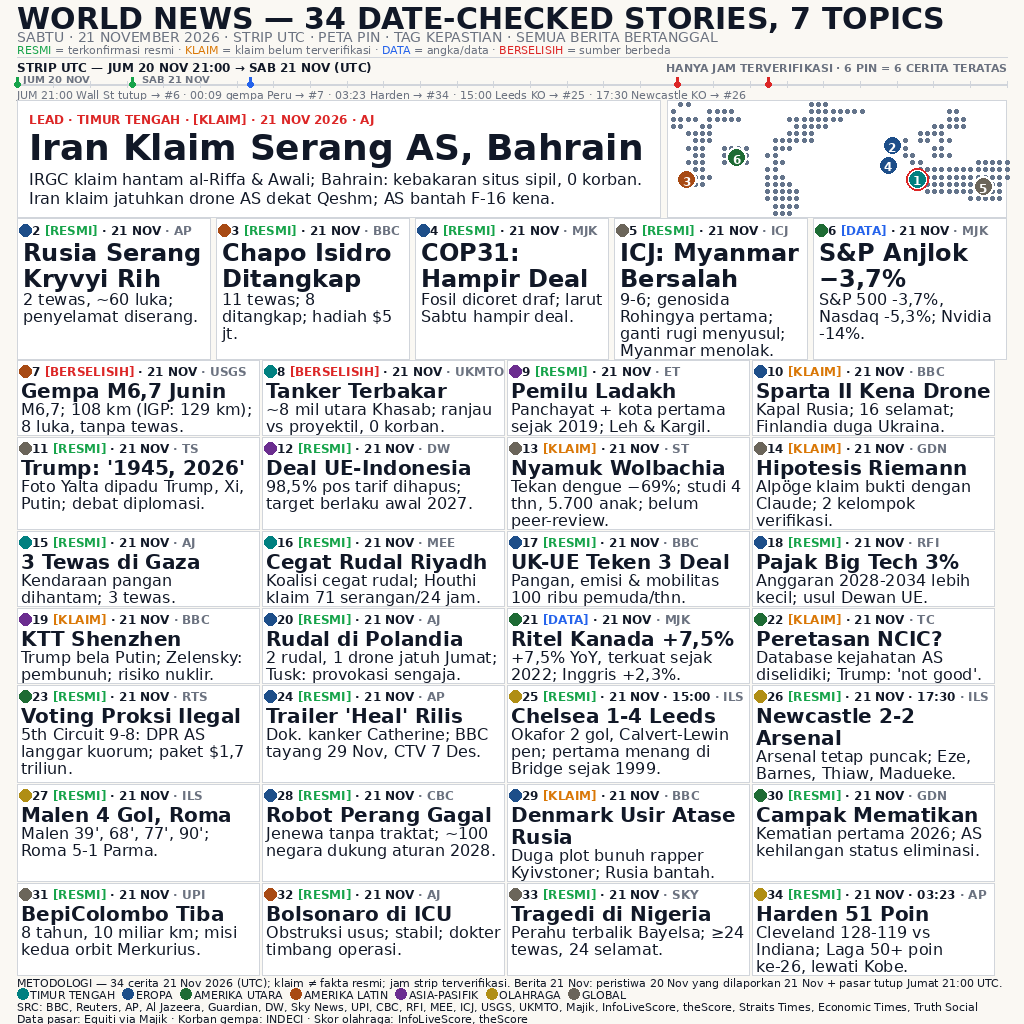
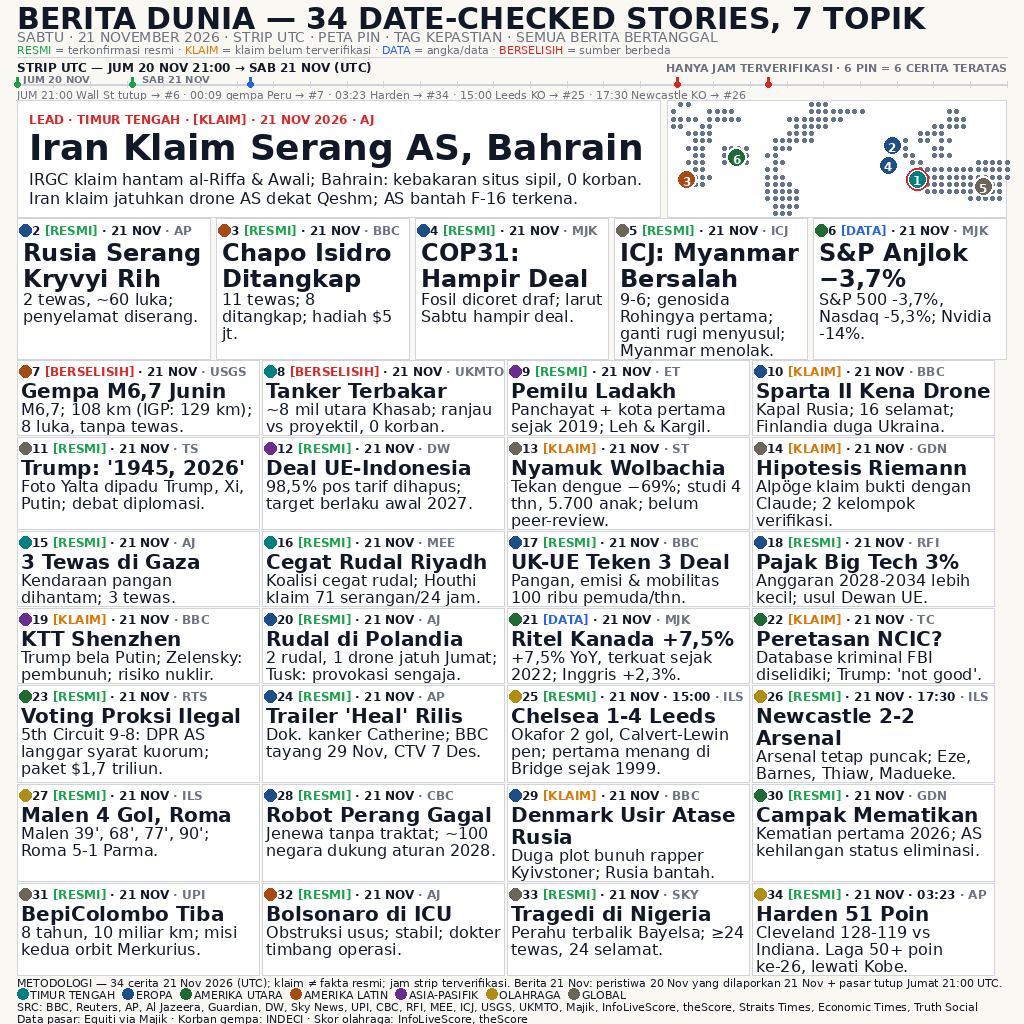
v8.9: 5 micro-fix teks per rev8.9 brief — h1 'BERITA DUNIA ... 7 TOPIK' (908,6px), #34 ';'->'.', #22 'Database kriminal FBI', #23 'syarat kuorum', lead 'F-16 terkena' (assert lead lolos); tanpa ubah geometri/font

diff --git a/stories_v8_9.py b/stories_v8_9.py
@@ -1,0 +1,211 @@
+# Data v8.6 — 34 cerita, 1 kartu = 1 cerita (polish atas v8.5, brief rev8.6).
+# Perubahan data vs v8.5 (tiga string, SEMUA terukur dgn font PIL asli):
+# A1 judul #23 "Proxy Voting Ilegal" -> "Voting Proksi Ilegal" (219,9px <=
+# 235px @20px bold). A2 badan #24 tambah "tayang" (2 baris 222/216px @16px;
+# subjek "Dok. kanker Catherine;" DIPERTAHANKAN). A3 badan #14 "dgn" ->
+# "dengan" (tetap 3 baris 215/159/77px @16px). A4 h1 "7 KATEGORI" ->
+# "7 TOPICS" (927,8px <= 990px) hanya ubah build_image.py, bukan data.
+# File baru ini ada agar build_image.py mengimpor stories_v8_6 (jejak versi bersih).
+# Tuple: (num, group, title, body, tag, time_utc_or_None, lon, lat, source)
+# SEMUA kartu punya source (34/34, dari log verifikasi OneTurn 21 Nov +
+# Majik — BUKAN tebakan). Sumber v8/v8.1 dipertahankan.
+# #7: "6,9" adalah estimasi OTOMATIS yg direvisi ke 6,7 — JANGAN dipakai.
+#   [BERSELISIH] = beda kedalaman USGS 108 km vs IGP 129 km; korban Indeci.
+# #16 tag TETAP [RESMI] (tag = kepastian klaim UTAMA cegatan koalisi;
+#   angka 71 membawa atribusi sendiri "Houthi klaim"). #19/#13 TETAP [KLAIM].
+# #20: jam pasti TAK ADA di riset -> "Jumat", bukan "20 Nov".
+# #25: Chelsea tuan rumah; Emegha cetak gol UNTUK CHELSEA (jangan cantumkan
+#   sbg pencetak gol Leeds).
+# #10: subjek "diduga" = Finlandia (terverifikasi). #29: subjek = Denmark.
+# PERUBAHAN v8.3 vs v8.2 (brief rev8.3, TERUKUR dgn font PIL asli):
+# - #2: badan "2 tewas, ~60 luka; penyelamat diserang." (2 baris, maks
+#   175,1px/182px); usia (anak 7, paramedis 20) DIBUANG — pluralitas
+#   ronde v8.2 (Claude, Kimi, MiniMax) minta "~60 luka" kembali; gabungan
+#   usia + hitungan = 4 baris, tak muat 3 baris.
+# - #10: judul "Sparta II Kena drone" (1 baris, 233,1px/235px) + badan
+#   "Kapal Rusia; 16 selamat; Finlandia duga Ukraina." (2 baris);
+#   "Kapal Rusia" kembali, "Terbakar" (terbaca kecelakaan) -> "Kena drone".
+# - #13: badan "Tekan dengue −69%; ..." (minus U+2212, seragam dgn #6).
+# - #16: judul "Cegat Rudal Riyadh" (1 baris, 221,2px/235px); badan + tag
+#   [RESMI] TETAP.
+# - #27: badan "Malen 39', 68', 77', 90'; Roma 5-1 Parma." (2 baris;
+#   baris ke-2 137,5px <= 220px); "Mora 71';" DIBUANG (gol Parma).
+# - #34: badan "Cleveland 128-119 vs Indiana; laga 50+ poin ke-26,
+#   lewati Kobe." (3 baris; "game" -> "laga 50+ poin").
+# DEVIASI TERUKUR vs brief rev8.3 (dilaporkan ke parent):
+# - A2 judul target "Sparta II Kena Drone" = 235,4px > anggaran 235px
+#   (lebih 0,4px) -> dipakai "Sparta II Kena drone" (233,1px; huruf 'd'
+#   kecil — "drone" kata benda umum, bukan nama diri; fakta drone utuh).
+#   Alternatif "Sparta II Diserang" (204,8px) DITOLAK karena membuang
+#   fakta drone dari kartu.
+# - A3 judul target "Rudal Riyadh Dicegat" = 241,9px > 235px (juga
+#   alternatif Kimi "Riyadh: Rudal Dicegat" 249,9px) -> dipakai
+#   "Cegat Rudal Riyadh" (221,2px; kata kerja + objek + tempat —
+#   tak ambigu: yg dicegat jelas "Rudal", "Riyadh" tempatnya).
+# PERUBAHAN v8.4 vs v8.3 (brief rev8.4, TERUKUR dgn font PIL asli):
+# - A1 DIBLOKIR: judul target #10 "Drone Serang Sparta II" = 258,8px
+#   > anggaran 235px (lebih 23,8px) — klaim Nemotron "~206px" SALAH
+#   (~53px). Judul #10 TETAP "Sparta II Kena drone" (233,1px). Alternatif
+#   terukur (utk parent, BUKAN diterapkan): "Sparta Kena Drone" 213,5px
+#   (buang "II" dari nama kapal), "Sparta II Kena UAV" 212,6px (jargon),
+#   "Sparta II Diserang"/"Sparta II Dihantam" 204,8/213,3px (buang fakta
+#   drone), "Sparta II Kena Drone" 235,4px (lebih 0,4px). Font TIDAK
+#   dikecilkan (dilarang). Brief: bila tak muat, LAPORKAN — dilakukan.
+# - A2 (footer src1, di build_image.py): "InfoLiveScore, theScore"
+#   dipulihkan; dana "Middle East Eye" -> "MEE" (kode meta #16 sendiri).
+STORIES = [
+    # 1 — LEAD (Timur Tengah)
+    (1, "TIMUR TENGAH", "Iran Klaim Serang AS, Bahrain",
+     "IRGC klaim hantam al-Riffa & Awali; Bahrain: kebakaran situs sipil, "
+     "0 korban. Iran klaim jatuhkan drone AS dekat Qeshm; AS bantah F-16 terkena.",
+     "KLAIM", None, 50.5, 26.2, "Al Jazeera"),
+    # 2–6 — SEKUNDER
+    (2, "EROPA", "Rusia Serang Kryvyi Rih",
+     "2 tewas, ~60 luka; penyelamat diserang.",
+     "RESMI", None, 33.4, 47.9, "AP"),
+    (3, "AMERIKA LATIN", "Chapo Isidro Ditangkap",
+     "11 tewas; 8 ditangkap; hadiah $5 jt.",
+     "RESMI", None, -108.5, 25.6, "BBC"),
+    (4, "EROPA", "COP31: Hampir Deal",
+     "Fosil dicoret draf; larut Sabtu hampir deal.",
+     "RESMI", None, 30.7, 36.9, "Majik"),
+    (5, "GLOBAL", "ICJ: Myanmar Bersalah",
+     "9-6; genosida Rohingya pertama; ganti rugi menyusul; Myanmar menolak.",
+     "RESMI", None, 96.0, 21.0, "ICJ"),
+    (6, "AMERIKA UTARA", "S&P Anjlok −3,7%",
+     "S&P 500 -3,7%, Nasdaq -5,3%; Nvidia -14%.",
+     "DATA", "21:00", -74.0, 40.7, "Majik"),
+    # 7–12 — REGULER
+    (7, "AMERIKA LATIN", "Gempa M6,7 Junin",
+     "M6,7; 108 km (IGP: 129 km); 8 luka, tanpa tewas.",
+     "BERSELISIH", "00:09", -75.0, -11.0, "USGS"),
+    (8, "TIMUR TENGAH", "Tanker Terbakar",
+     "~8 mil utara Khasab; ranjau vs proyektil, 0 korban.",
+     "BERSELISIH", None, 56.2, 26.2, "UKMTO"),
+    (9, "ASIA-PASIFIK", "Pemilu Ladakh",
+     "Panchayat + kota pertama sejak 2019; Leh & Kargil.",
+     "RESMI", None, 77.6, 34.2, "Economic Times"),
+    (10, "EROPA", "Sparta II Kena Drone",
+     "Kapal Rusia; 16 selamat; Finlandia duga Ukraina.",
+     "KLAIM", None, 25.0, 59.8, "BBC"),
+    (11, "GLOBAL", "Trump: '1945, 2026'",
+     "Foto Yalta dipadu Trump, Xi, Putin; debat diplomasi.",
+     "RESMI", None, 116.4, 39.9, "Truth Social"),
+    (12, "ASIA-PASIFIK", "Deal UE-Indonesia",
+     "98,5% pos tarif dihapus; target berlaku awal 2027.",
+     "RESMI", None, 106.8, -6.2, "DW"),
+]
+
+STORIES += [
+    (13, "GLOBAL", "Nyamuk Wolbachia",
+     "Tekan dengue −69%; studi 4 thn, 5.700 anak; belum peer-review.",
+     "KLAIM", None, -48.0, -15.0, "Straits Times"),
+    (14, "GLOBAL", "Hipotesis Riemann",
+     "Alpöge klaim bukti dengan Claude; 2 kelompok verifikasi.",
+     "KLAIM", None, -122.4, 37.8, "Guardian"),
+    (15, "TIMUR TENGAH", "3 Tewas di Gaza",
+     "Kendaraan pangan dihantam; 3 tewas.",
+     "RESMI", None, 34.5, 31.5, "Al Jazeera"),
+    (16, "TIMUR TENGAH", "Cegat Rudal Riyadh",
+     "Koalisi cegat rudal; Houthi klaim 71 serangan/24 jam.",
+     "RESMI", None, 42.8, 14.8, "Middle East Eye"),
+    (17, "EROPA", "UK-UE Teken 3 Deal",
+     "Pangan, emisi & mobilitas 100 ribu pemuda/thn.",
+     "RESMI", None, 4.4, 50.8, "BBC"),
+    (18, "EROPA", "Pajak Big Tech 3%",
+     "Anggaran 2028-2034 lebih kecil; usul Dewan UE.",
+     "RESMI", None, 4.4, 50.8, "RFI"),
+    (19, "ASIA-PASIFIK", "KTT Shenzhen",
+     "Trump bela Putin; Zelensky: pembunuh; risiko nuklir.",
+     "KLAIM", None, 114.0, 22.5, "BBC"),
+    (20, "EROPA", "Rudal di Polandia",
+     "2 rudal, 1 drone jatuh Jumat; Tusk: provokasi sengaja.",
+     "RESMI", None, 21.0, 52.2, "Al Jazeera"),
+    (21, "AMERIKA UTARA", "Ritel Kanada +7,5%",
+     "+7,5% YoY, terkuat sejak 2022; Inggris +2,3%.",
+     "DATA", None, -75.7, 45.4, "Majik"),
+    (22, "AMERIKA UTARA", "Peretasan NCIC?",
+     "Database kriminal FBI diselidiki; Trump: 'not good'.",
+     "KLAIM", None, -77.0, 38.9, "TechCrunch"),
+    (23, "AMERIKA UTARA", "Voting Proksi Ilegal",
+     "5th Circuit 9-8: DPR AS langgar syarat kuorum; paket $1,7 triliun.",
+     "RESMI", None, -77.0, 38.9, "Reuters"),
+    (24, "EROPA", "Trailer 'Heal' Rilis",
+     "Dok. kanker Catherine; BBC tayang 29 Nov, CTV 7 Des.",
+     "RESMI", None, -0.1, 51.5, "AP"),
+]
+
+STORIES += [
+    (25, "OLAHRAGA", "Chelsea 1-4 Leeds",
+     "Okafor 2 gol, Calvert-Lewin pen; pertama menang di Bridge "
+     "sejak 1999.",
+     "RESMI", "15:00", -0.1, 51.5, "InfoLiveScore"),
+    (26, "OLAHRAGA", "Newcastle 2-2 Arsenal",
+     "Arsenal tetap puncak; Eze, Barnes, Thiaw, Madueke.",
+     "RESMI", "17:30", -1.6, 54.98, "InfoLiveScore"),
+    (27, "OLAHRAGA", "Malen 4 Gol, Roma",
+     "Malen 39', 68', 77', 90'; Roma 5-1 Parma.",
+     "RESMI", None, 10.3, 44.8, "InfoLiveScore"),
+    (28, "EROPA", "Robot Perang Gagal",
+     "Jenewa tanpa traktat; ~100 negara dukung aturan 2028.",
+     "RESMI", None, 6.1, 46.2, "CBC"),
+    (29, "EROPA", "Denmark Usir Atase Rusia",
+     "Duga plot bunuh rapper Kyivstoner; Rusia bantah.",
+     "KLAIM", None, 12.6, 55.7, "BBC"),
+    (30, "AMERIKA UTARA", "Campak Mematikan",
+     "Kematian pertama 2026; AS kehilangan status eliminasi.",
+     "RESMI", None, -77.5, 37.5, "Guardian"),
+    (31, "GLOBAL", "BepiColombo Tiba",
+     "8 tahun, 10 miliar km; misi kedua orbit Merkurius.",
+     "RESMI", None, None, None, "UPI"),
+    (32, "AMERIKA LATIN", "Bolsonaro di ICU",
+     "Obstruksi usus; stabil; dokter timbang operasi.",
+     "RESMI", None, -47.9, -15.8, "Al Jazeera"),
+    (33, "GLOBAL", "Tragedi di Nigeria",
+     "Perahu terbalik Bayelsa; ≥24 tewas, 24 selamat.",
+     "RESMI", None, 6.3, 4.9, "Sky News"),
+    (34, "OLAHRAGA", "Harden 51 Poin",
+     "Cleveland 128-119 vs Indiana. Laga 50+ poin ke-26, lewati Kobe.",
+     "RESMI", "03:23", -81.7, 41.5, "AP"),
+]
+
+# Warna titik region (dipakai badge meta + pin peta). Border kartu NETRAL.
+GROUP_COLOR = {
+    "TIMUR TENGAH": (0, 128, 128),
+    "EROPA": (29, 78, 137),
+    "AMERIKA UTARA": (30, 107, 52),
+    "AMERIKA LATIN": (168, 74, 20),
+    "ASIA-PASIFIK": (107, 45, 143),
+    "OLAHRAGA": (176, 142, 20),
+    "GLOBAL": (107, 101, 90),
+}
+GROUP_ORDER = ["TIMUR TENGAH", "EROPA", "AMERIKA UTARA", "AMERIKA LATIN",
+               "ASIA-PASIFIK", "OLAHRAGA", "GLOBAL"]
+
+# (REGION_CODE v8 DIHAPUS — B1: meta seragam 4-segmen, tanpa kode region.
+# Region tetap terkode lewat DOT WARNA 12px + legenda footer nama penuh.)
+
+# Pin peta v8.2 (= v8.1): HANYA 6 cerita teratas (lead + 5 sekunder).
+# #2 (0,-2) + #4 (0,+2): pusat 20,33px — halo 20px TIDAK bersentuhan;
+# assert tabrakan memakai diameter halo (20px), bukan dot (16px).
+PINS_V8_2 = [
+    (1, 0, 0), (2, 0, -2), (3, 0, 0), (4, 0, 2), (5, 0, 0), (6, 0, 0),
+]
+
+# Kartu reguler yg membawa jam di meta (pengganti kode region): #25/#26/#34.
+TIME_IN_META = {25, 26, 34}
+
+# Singkatan sumber untuk meta 12px (footer menulis nama penuh).
+SRC_SHORT = {
+    "Middle East Eye": "MEE",
+    "InfoLiveScore": "ILS",
+    "Al Jazeera": "AJ",
+    "TechCrunch": "TC",
+    "Guardian": "GDN",
+    "Reuters": "RTS",
+    "Sky News": "SKY",
+    "Majik": "MJK",
+    "Straits Times": "ST",
+    "Economic Times": "ET",
+    "Truth Social": "TS",
+}

diff --git a/build_image.py b/build_image.py
@@ -1,5 +1,14 @@
 #!/usr/bin/env python3
-"""Render entry.png 1024x1024 — news-image-20261121 v8.8 (brief rev8.8).
+"""Render entry.png 1024x1024 — news-image-20261121 v8.9 (brief rev8.9).
+
+v8.9 = polish atas v8.8 (34 cerita, 1 kartu = 1 cerita, lead + 5 sekunder +
+28 reguler 4x7). 5 micro-fix teks (brief rev8.9) — TANPA ubah geometri:
+- A1 h1 "WORLD NEWS — 34 DATE-CHECKED STORIES, 7 TOPICS" ->
+  "BERITA DUNIA — 34 DATE-CHECKED STORIES, 7 TOPIK" (908.6px @30px bold).
+- A2 badan #34 "Indiana;" -> "Indiana." (tetap 3 baris).
+- A3 badan #22 "Database kejahatan AS" -> "Database kriminal FBI".
+- A4 badan #23 "langgar kuorum" -> "langgar syarat kuorum".
+- A5 badan lead #1 "F-16 kena" -> "F-16 terkena" (tetap 2 baris, assert lead).
 
 v8.8 = polish atas v8.7 (34 cerita, 1 kartu = 1 cerita, lead + 5 sekunder +
 28 reguler 4x7). 2 micro-fix huruf (brief rev8.8) — TANPA ubah geometri:
@@ -70,7 +79,7 @@ Leading badan 17px (16px font — lantai, tidak pernah dikecilkan).
 from PIL import Image, ImageDraw, ImageFont
 import os, sys
 sys.path.insert(0, os.path.dirname(os.path.abspath(__file__)))
-from stories_v8_8 import (STORIES, PINS_V8_2, GROUP_COLOR, GROUP_ORDER,
+from stories_v8_9 import (STORIES, PINS_V8_2, GROUP_COLOR, GROUP_ORDER,
                          SRC_SHORT, TIME_IN_META)
 
 W, H = 1024, 1024
@@ -317,7 +326,7 @@ def draw_meta(draw, s, x, y, card_w):
     return mt
 
 def draw_header(draw):
-    h1 = "WORLD NEWS — 34 DATE-CHECKED STORIES, 7 TOPICS"
+    h1 = "BERITA DUNIA — 34 DATE-CHECKED STORIES, 7 TOPIK"
     assert tw(draw, h1, f(30, True)) <= 990, "h1 terlalu lebar"
     draw.text((MARGIN, 1), h1, font=f(30, True), fill=INK)
     # h2 HURUF BESAR SEMUA (tanpa descender — memberi ruang utk legenda tag)
